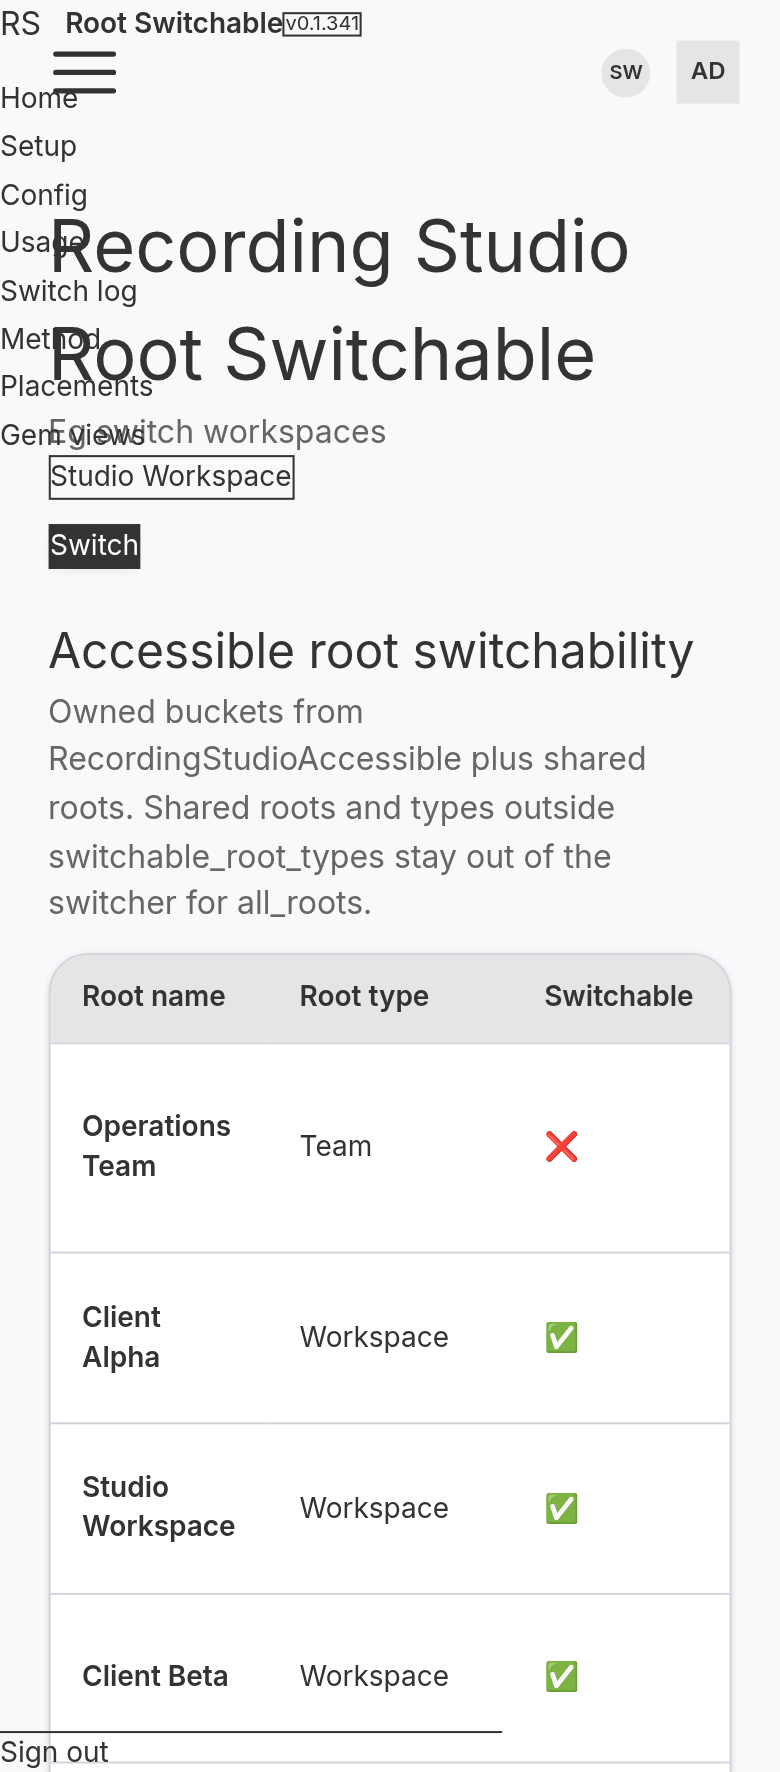
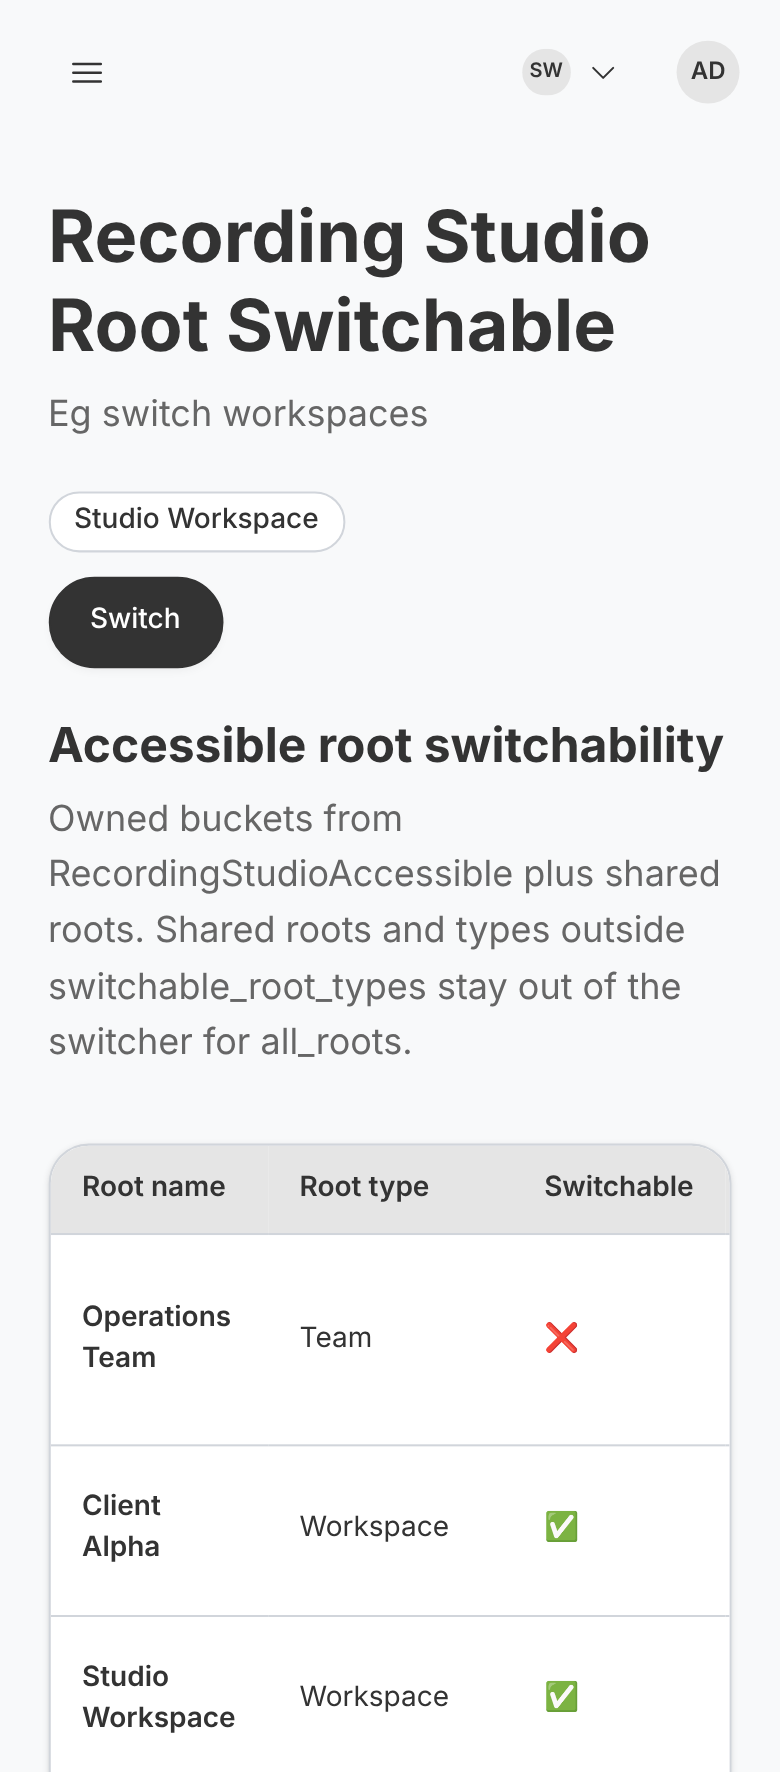
Rebuild dummy CSS screenshots and fix compact trigger RuboCop.
Link vendor/flat_pack before tailwindcss:build so screenshot and Cloud Agent
environments emit FlatPack layout classes. Replace the unstyled 390px and
desktop shots. Keep compact: on the helper kwargs to stay within ParameterLists.

diff --git a/app/components/recording_studio_root_switchable/root_switch/dropdown_component.rb b/app/components/recording_studio_root_switchable/root_switch/dropdown_component.rb
@@ -12,9 +12,12 @@ module RecordingStudioRootSwitchable
         always: "hidden"
       }.freeze
 
+      BADGE_BASE = "inline-flex h-6 w-6 shrink-0 items-center justify-center " \
+                   "rounded-full bg-[var(--avatar-background-color)] text-[10px] " \
+                   "font-semibold uppercase leading-none text-[var(--avatar-text-color)]"
       BADGE_CLASSES = {
-        below_md: "inline-flex h-6 w-6 shrink-0 items-center justify-center rounded-full bg-[var(--avatar-background-color)] text-[10px] font-semibold uppercase leading-none text-[var(--avatar-text-color)] md:hidden",
-        always: "inline-flex h-6 w-6 shrink-0 items-center justify-center rounded-full bg-[var(--avatar-background-color)] text-[10px] font-semibold uppercase leading-none text-[var(--avatar-text-color)]"
+        below_md: "#{BADGE_BASE} md:hidden",
+        always: BADGE_BASE
       }.freeze
 
       def initialize(menu_rows:, compact: nil, **system_arguments)
@@ -46,12 +49,14 @@ module RecordingStudioRootSwitchable
       def with_trigger_attributes(system_arguments)
         attrs = (system_arguments[:trigger_attributes] || {}).dup
         attrs[:title] = menu_rows.current_label if attrs[:title].blank?
-        if compact?
-          aria = (attrs[:aria] || {}).dup
-          aria[:label] = menu_rows.current_label if aria[:label].blank?
-          attrs[:aria] = aria
-        end
+        apply_compact_aria(attrs) if compact?
         system_arguments.merge(trigger_attributes: attrs)
+      end
+
+      def apply_compact_aria(attrs)
+        aria = (attrs[:aria] || {}).dup
+        aria[:label] = menu_rows.current_label if aria[:label].blank?
+        attrs[:aria] = aria
       end
 
       def compact?
@@ -65,7 +70,7 @@ module RecordingStudioRootSwitchable
       end
 
       def compact_badge
-        content_tag(:span, class: BADGE_CLASSES.fetch(compact), aria: {hidden: true}) do
+        content_tag(:span, class: BADGE_CLASSES.fetch(compact), aria: { hidden: true }) do
           initials = compact_initials
           if initials.present?
             initials

diff --git a/test/root_switch_compact_trigger_test.rb b/test/root_switch_compact_trigger_test.rb
@@ -42,7 +42,7 @@ class RootSwitchCompactTriggerTest < Minitest::Test
 
   def test_none_selected_rows_are_detected
     rows = RecordingStudioRootSwitchable::RootSwitch::MenuRows.build(
-      entries: [{id: "alpha", label: "Client Alpha"}],
+      entries: [{ id: "alpha", label: "Client Alpha" }],
       selected: nil,
       form_action: "/switch",
       return_to: "/placements",
@@ -60,8 +60,8 @@ class RootSwitchCompactTriggerTest < Minitest::Test
 
   def test_selected_rows_are_not_none_selected
     rows = RecordingStudioRootSwitchable::RootSwitch::MenuRows.build(
-      entries: [{id: "studio", label: "Studio"}],
-      selected: {id: "studio", label: "Studio"},
+      entries: [{ id: "studio", label: "Studio" }],
+      selected: { id: "studio", label: "Studio" },
       form_action: "/switch",
       return_to: "/placements",
       options: RecordingStudioRootSwitchable::RootSwitch::MenuRows::Options.new(

diff --git a/app/helpers/recording_studio_root_switchable/root_switch_helper.rb b/app/helpers/recording_studio_root_switchable/root_switch_helper.rb
@@ -17,9 +17,9 @@ module RecordingStudioRootSwitchable
       new_root_path: nil,
       new_root_label: nil,
       new_root_icon: nil,
-      compact: nil,
       **system_arguments
     )
+      compact = system_arguments.delete(:compact)
       menu_rows = recording_studio_root_switch_menu_rows(
         return_to: return_to,
         new_root_path: new_root_path,
@@ -36,7 +36,6 @@ module RecordingStudioRootSwitchable
       new_root_path: nil,
       new_root_label: nil,
       new_root_icon: nil,
-      compact: nil,
       **system_arguments
     )
       component = recording_studio_root_switch_for(
@@ -44,7 +43,6 @@ module RecordingStudioRootSwitchable
         new_root_path: new_root_path,
         new_root_label: new_root_label,
         new_root_icon: new_root_icon,
-        compact: compact,
         **system_arguments
       )
       render(component) if component

diff --git a/app/components/recording_studio_root_switchable/root_switch/compact_trigger.rb b/app/components/recording_studio_root_switchable/root_switch/compact_trigger.rb
@@ -14,19 +14,15 @@ module RecordingStudioRootSwitchable
         return mode if MODES.include?(mode)
 
         raise ArgumentError,
-          "Invalid compact: #{value.inspect}. Must be nil, :below_md, or :always."
+              "Invalid compact: #{value.inspect}. Must be nil, :below_md, or :always."
       end
 
       def self.initials(name)
         words = name.to_s.scan(/[[:alpha:][:digit:]]+/)
         return if words.empty?
+        return words.first.chars.first(2).join.upcase if words.one?
 
-        letters = if words.one?
-          words.first.chars.first(2)
-        else
-          words.first(2).map { |word| word[0] }
-        end
-        letters.join.upcase
+        words.first(2).map { |word| word[0] }.join.upcase
       end
     end
   end

diff --git a/test/cloud_agent_boot_test.rb b/test/cloud_agent_boot_test.rb
@@ -34,6 +34,16 @@ class CloudAgentBootTest < Minitest::Test
     assert_includes install, "skipping apt, ruby-build, db:prepare, and tailwind"
   end
 
+  def test_install_sh_links_gem_sources_before_tailwind_build
+    install = File.read(File.join(ROOT, ".cursor/install.sh"))
+    link = install.index("bundle exec rails gem_sources:link")
+    build = install.index("bundle exec rails tailwindcss:build")
+
+    refute_nil link
+    refute_nil build
+    assert_operator link, :<, build
+  end
+
   def test_fetch_skills_writes_repo_cursor_dirs_not_home
     fetch = File.read(File.join(ROOT, ".cursor/fetch-skills.sh"))
 

diff --git a/README.md b/README.md
@@ -1207,6 +1207,8 @@ The dummy app in `test/dummy/` demonstrates:
 - two scopes (`all_workspaces` and `client_workspaces`)
 - `/placements` shows the dropdown, the host-menu list, and a collapsing button group
 - the dummy top nav uses `compact: :below_md` with `style: :ghost` and `size: :sm`
+  (see `docs/screenshots/root-switch-compact-390.png` and
+  `docs/screenshots/root-switch-compact-desktop.png`)
 - per-device persistence through the encrypted cookie-backed device key
 - fallback behavior when a persisted selection is no longer valid
 - Accessible `v0.11.1` wiring: 0.8–0.11 migrations (string `role`,
@@ -1222,6 +1224,10 @@ Login:
 - Password: `Password`
 
 These dummy credentials are for local demonstration only and should never be deployed as-is.
+
+Styled dummy screenshots need FlatPack on Tailwind’s `@source` path. From
+`test/dummy`, run `bin/rails gem_sources:link` then `bin/rails tailwindcss:build`
+(or `bin/dev`) before capturing. `.cursor/install.sh` does the same on a cold image.
 
 ## Cloud Agent boot
 

diff --git a/docs/cursor-skills.md b/docs/cursor-skills.md
@@ -7,7 +7,9 @@ The repository tracks four boot files:
 
 - `.cursor/environment.json` defines the Build hooks, terminals, and port.
 - `.cursor/install.sh` provisions Ruby, PostgreSQL, dependencies, the dummy
-  database, and CSS on a cold image. On a warm snapshot it skips that
+  database, and CSS on a cold image. It links `vendor/flat_pack` (and related
+  gems) before `tailwindcss:build` so FlatPack layout classes are in the CSS.
+  On a warm snapshot it skips that
   provision when Ruby, bundle, and Postgres are already usable. A skippable
   provision failure does not fail the Build. It always runs
   `.cursor/fetch-skills.sh` last.

diff --git a/CHANGELOG.md b/CHANGELOG.md
@@ -25,6 +25,9 @@ Compact trigger for the root switch dropdown so it fits a narrow top nav.
 - Default and md+ name labels truncate (`max-w-[9rem]`) and keep the full name
   in `title`. Menu rows, destinations, switching, the new-root row, and the
   phone `menu_row` are unchanged.
+- Dummy compact TopNav shots at `docs/screenshots/root-switch-compact-390.png`
+  and `docs/screenshots/root-switch-compact-desktop.png`. Capture them after
+  `gem_sources:link` and `tailwindcss:build` so FlatPack layout CSS is present.
 
 ### Upgrade Notes
 - Pass `compact: :below_md` on a tight top nav (ghost, size `:sm`).
